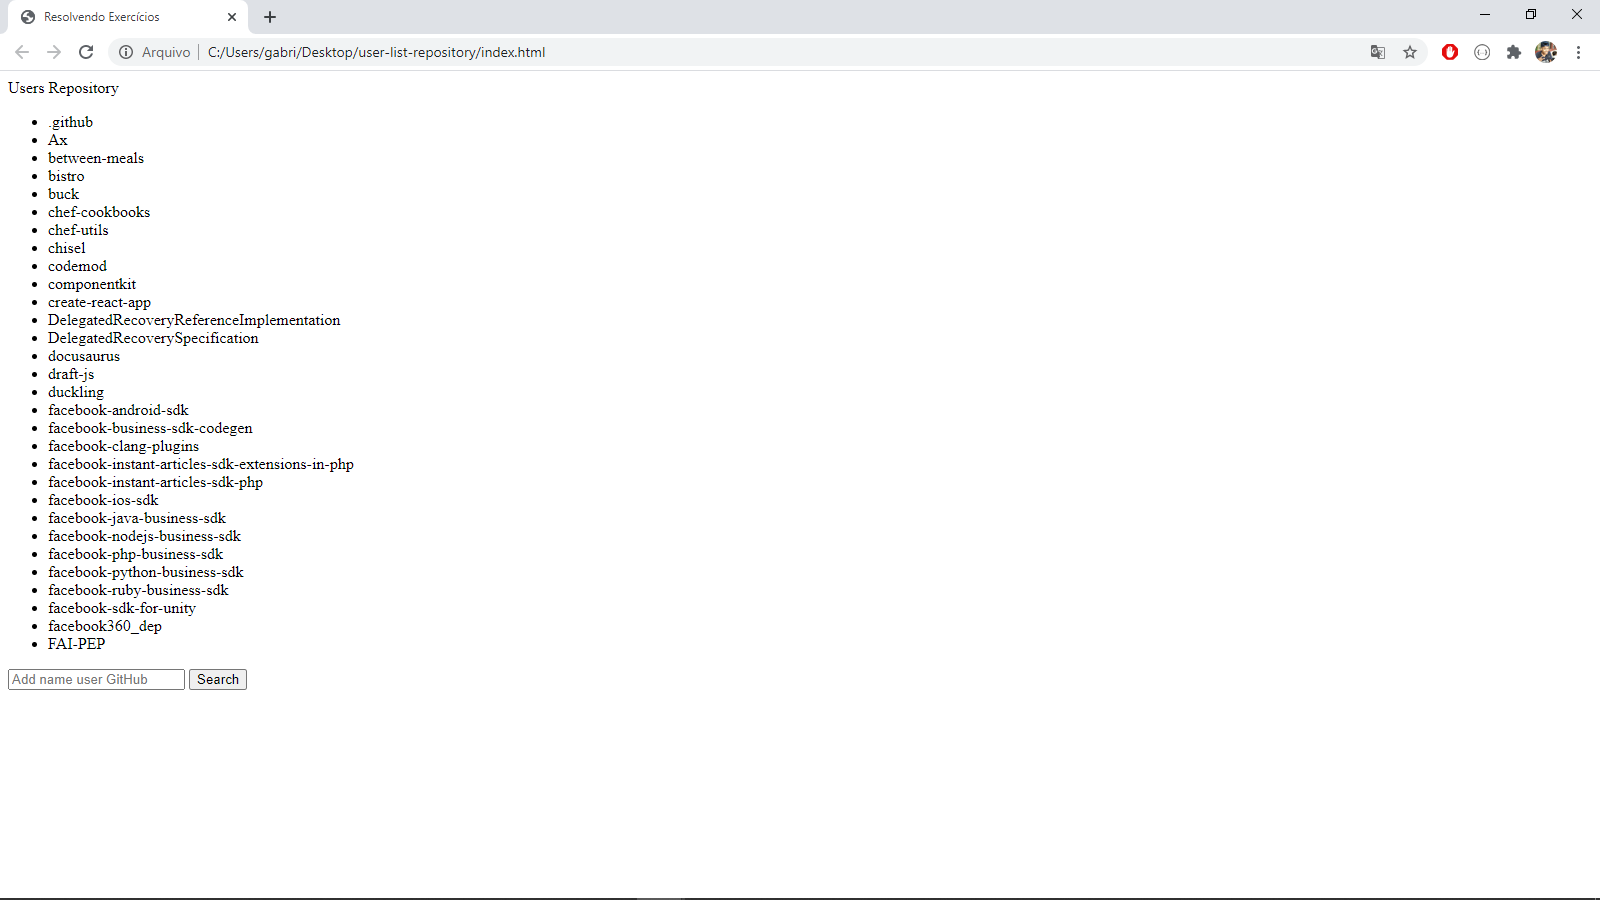
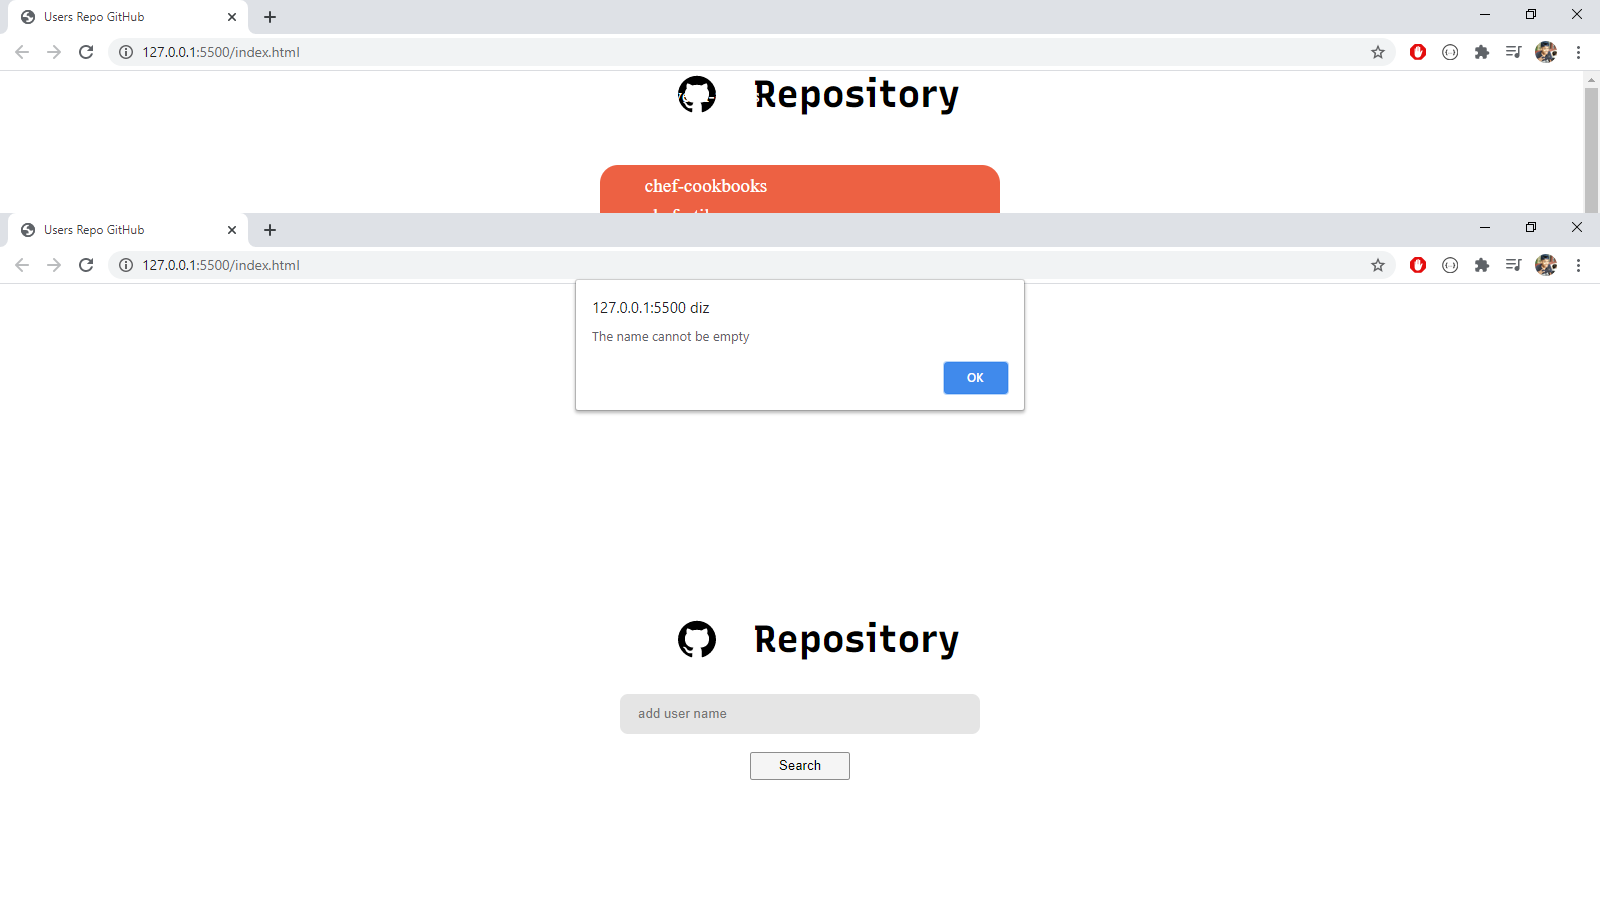
updated screenshots

diff --git a/style.css b/style.css
@@ -6,7 +6,6 @@ html, body {
 #app {
     width: 100vw;
     height: 100vh;
-    border-radius: 24px;
     display: flex;
     align-items: center;
     flex-direction: column;
@@ -16,38 +15,38 @@ html, body {
 .top-bar-app {
     display: flex;
     align-items: center;
+    justify-content: center;
     font: 700 38px Recursive;
 }
 
 .top-bar-app img {
-    margin: auto 38px;
     height: 38px;
+    margin: auto 38px;
 }
 
-.user-list {
-    width: 400px;
-    min-height: 480px;
-
-    margin-top: 48px;
+.user-list ul {
+    width: 600px;
+    max-height: 500px;
     border-radius: 18px;
-
-    display: flex;
-    align-items: center;
-    justify-content: center;
-    flex-direction: column;
+    overflow-y: scroll;
     background-color: #ED6143;
 }
 
 .user-list li {
-    margin: 8px;
     color: #ffff;
     list-style: none;
-
+    text-align: start;
     font: 1.2rem sans-serif;
     font-family: Recurvise;
 }
 
-input {
+.bottom-bar-app {
+    display: flex;
+    align-items: center;
+    flex-direction: column;
+}
+
+.bottom-bar-app input {
     height: 38px;
     width: 340px;
     margin-bottom: 18px;

diff --git a/index.html b/index.html
@@ -20,9 +20,10 @@
         <div class="user-list">
             <ul></ul>
         </div>
-        <ul></ul>
-        <input type="text" placeholder="add user name" name="user">
-        <button>Search</button>
+        <div class="bottom-bar-app">
+            <input type="text" placeholder="add user name" name="user">
+            <button>Search</button>
+        </div>
     </div>
 
     <script src="https://cdn.jsdelivr.net/npm/axios/dist/axios.min.js"></script>
